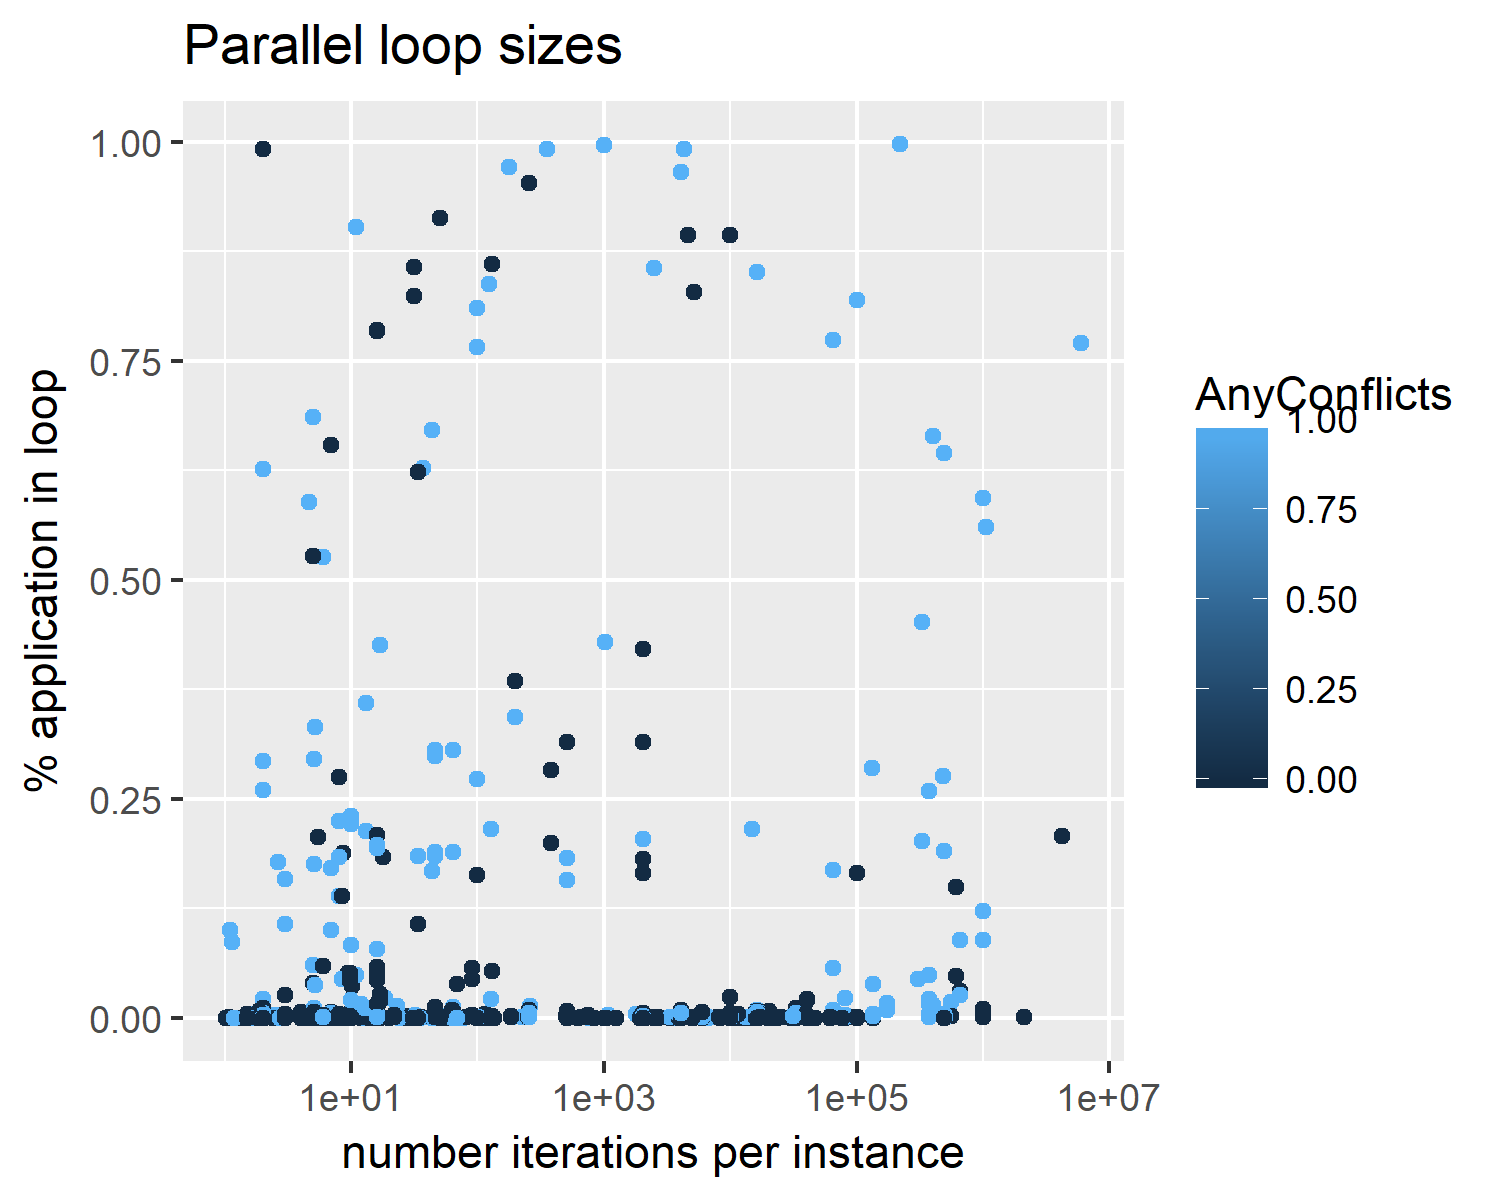
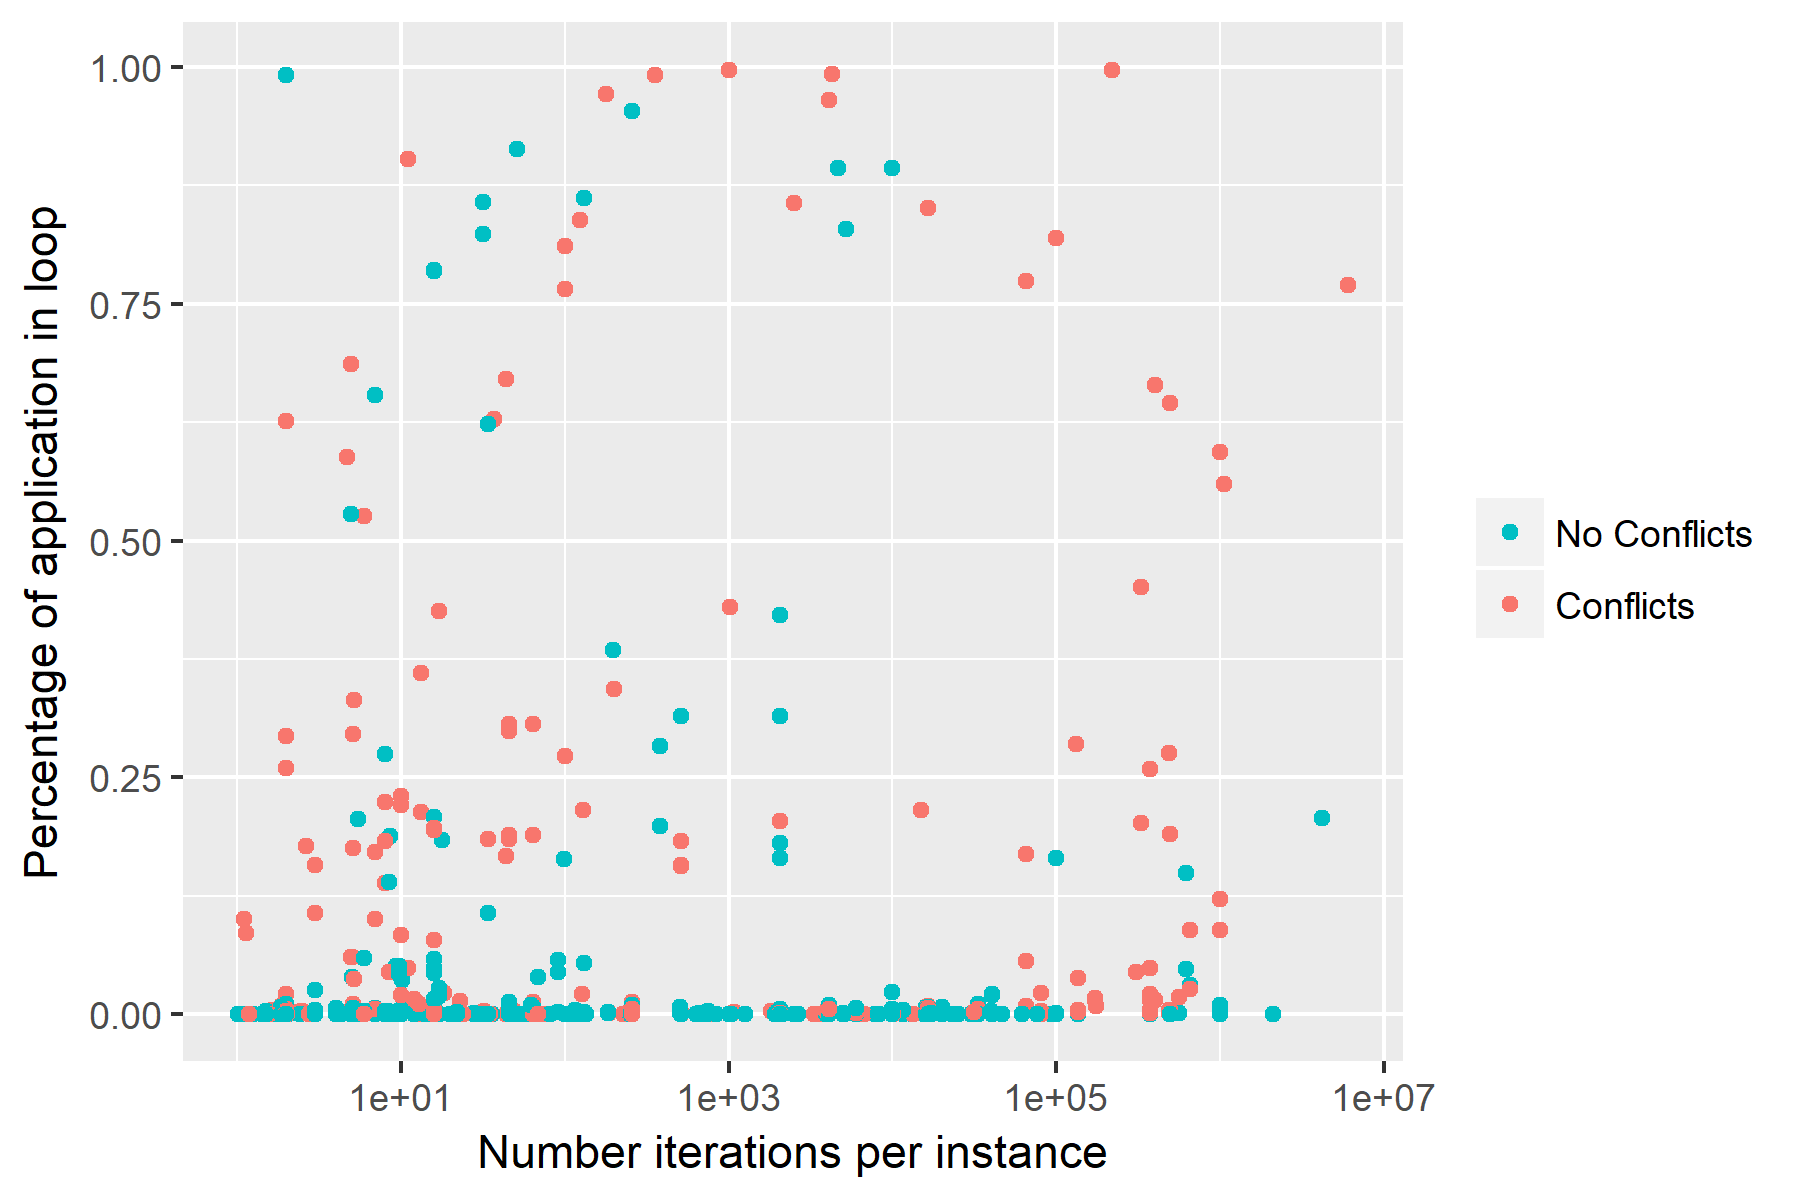
added sections to results

diff --git a/thesis.tex b/thesis.tex
@@ -1604,11 +1604,81 @@ for(int i=h_graph_nodes[tid].starting;
 	
 	\section{Identifying important parallelism}
 		
+		One of the goals of this thesis is to use parallelism detection to aid further analysis, for example estimating the effectiveness of GPU acceleration. 
+		This section evaluates whether the parallelism tool we built can be used for this purpose. In particular, we confirm that the tool does detect loops which could possibly be accelerated by massively parallel hardware for meaningful performance improvements. 
+		%In order for an analysis to be meaningful, the loops detected as parallel need to be important to application performance, and need to be scalable on many cores. %However, such an analysis would not work if  
+		%However, that will not be possible if the loops detected as parallel are not important for application performance. %  important loops, those that can be 
+		%In order for a parallelism detector tool to be useful, 
 		
+		%The effectiveness of the tools is questionable because it only detects trivially parallel loops: loops where each iteration is completely independent. Loops which can be parallelized with reductions or with locking mechanisms are not always identified as parallel. But we hope that this method will identify significant parallelism in many applications that can be parallelized on GPUs. % and will also help the programmer parallelize loops detected as not parallel. 
+		
+		\subsubsection{Significance of loops}
+		
+		Most loops are not worth investigating, and should be eliminated from further analysis. 
+		Programmers usually want to optimize entire applications; individual loops are only optimized when significant proportions of the application's running time is in the loop. 
+		%We found that certain loops, some parallelizable and some not, have outsized importance to program runtime. 
+		Figure \ref{fig:size-iteration-plots} shows the percentage of running time spent in the loops (estimated by machine instructions executed), how many iterations they have, and whether they were found to not have data conflicts (which means they are parallelizable). This plot includes all loops from all applications. 
+		%In the figure, loops which are parallel, and have a large number of iterations (blue dots, upper left) have a good chance of being usefully parallelized on GPUs. 
+		%Loops which are not found to be parallel, but do have a large number of iterations, and are important (red dots, upper left) can be reported to the programmer as worthy of further investigation. Perhaps they can be parallelized with a reduction or with some data synchronization. 
+		
+		%In this plot, as with the all of our analysis, running time is estimated with number of machine instructions executed. 
+		%We use the proportion of instructions evaluated in the loop to estimate how much time is spent in a loop. % we estimate the percentage of time spent in the loop. This is estimated b calculate the %evaluate how important  is a metric for loop importance relative \
+		%This metric is placed as a function of loop iterations is displayed on Figure . The higher the loop is on the graph, the more important it in the application performance.
 		
 		\begin{figure}
-			\caption{}%Possible speedups with parallelization}
-			\label{fig:mem-comp-plot-rodinia}
+			\caption{Loop importance and parallelizability}
+			\label{fig:size-iteration-plots}
+			\includegraphics[scale=0.7]{plots/size_iteration_plot.png}
+		\end{figure}
+		
+		This plot shows that there are several loops which can be trivially parallelized for significant application speedup. 
+		These are the loops which are parallel (do not have conflicts) and have substantial number of iterations (blue dots, upper left). These can be reported to the programmer as targets of trivial parallelization. 
+		
+		The important loops that are not parallel (have conflicts) but have a large number of iterations are also important (red dots, upper left). These loops could possibly be parallelized with a reduction or with data synchronization, and should be reported to the programmer for further investigation.
+		
+		But the dots near the bottom are unimportant to application performance, and so should be ignored. This eliminates most of the loops from consideration. 75\% of the loops include less than 1\% of the total runtime of their respective application, and 83\% of loops include less than 10\% of application runtime). 
+		
+		%And the dots on the far left cannot be parallelized to a high degree.
+		% These loops could be reported to the programmer as ones that should be investigated for non-trivial parallelization.
+		
+		%From this plot, you can see that there are many important loops, some of which are parallel, and some of which are not, some of which have many iterations, some of which have few.
+		%This
+		
+		\subsubsection{Parallelizability of applications}
+		
+		The applications profiled are all parallelizable to some degree, and many of them can be run effectively on GPUs. Does the tool detect all these applications as having significant potential to parallelize?
+		
+		To answer this, we introduce a metric for loop speedup which assumes a sort of idealized parallelism. It is calculated with:
+		$$\text{loop speedup} = \text{loop size} - \frac{\text{loop size}}{\text{iterations per instance}} $$
+		Where the loop size is the proportion of time (approximated by instruction count) spent inside the loop.
+		This speedup estimate assumes no overhead, infinite cores, and uniform loop iterations.
+		These assumptions are extremely optimistic, and so this estimate of loop speedup may also be overly optimistic. But it gives a rough estimate of parallizabililty. Many of the loops which score highly, for example, the main loop of blackscholes, are in fact highly parallelizable. The loops which score poorly, are certainly not useful to parallelize. 
+		So this metric can be interpreted as an upper bound on how much the loop can reduce application performance if parallelized. 
+		
+		We detected some substantial parallelism in most of the profiled applications. 
+		Figure \ref{fig:application-parr} shows speedup of entire applications assuming idealized parallelization of a single loop in the program. BFS, hotspot and lavaMD show little potential for parallelism, as none of the parallel loops are very important to the application. Others, for example heartwall, LUD, and blackscholes show promise for large performance gains by parallelizing a single loop. Others are more ambiguous, such as swaptions and fluidanimate, because while parallelizing a single loop cannot increase application performance that much, it is possible that parallelizing several loops can in fact improve performance substantially. Since this plot only gives information about a single, loop, it cannot say either way.
+		
+		\subsubsection{Uniformity of useful parallel loops}
+		
+		
+		\subsubsection{Scale of detected parallelism}
+		
+		
+		\subsubsection{Scale of detected parallelism}
+		
+		%It will be used only to eliminate loops which score poorly from consideration. This will eliminate the many small loops with little importance to the program, and also loops which are not detected to be parallelizable. 
+		
+		%, or loops with . Loops which score low on this metric will not be useful to parallelize, loops that score high are not necessarily good candidates for parallelization. 
+		
+		
+		
+		%first cutlook at how 
+		
+		%These assumptions can certainly lead to misleading results, it sometimes corresponds to actual parallelization.
+		
+		\begin{figure}
+			\caption{Performance improvement by idealized parallelization}%Possible speedups with parallelization}
+			\label{fig:application-parr}
 			
 			\begin{minipage}{0.73\textwidth} % choose width suitably
 				\includegraphics[scale=0.9]{plots/application_idealized_speedup.png}
